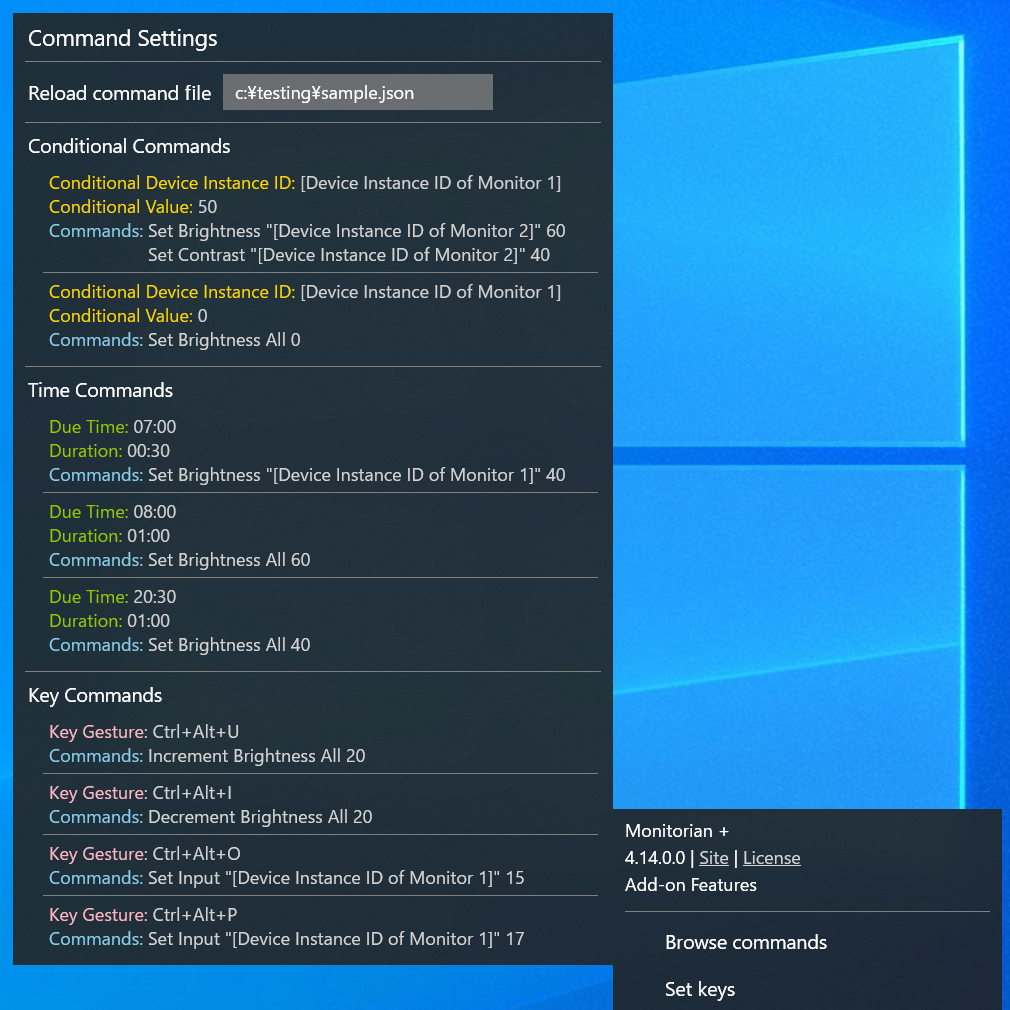
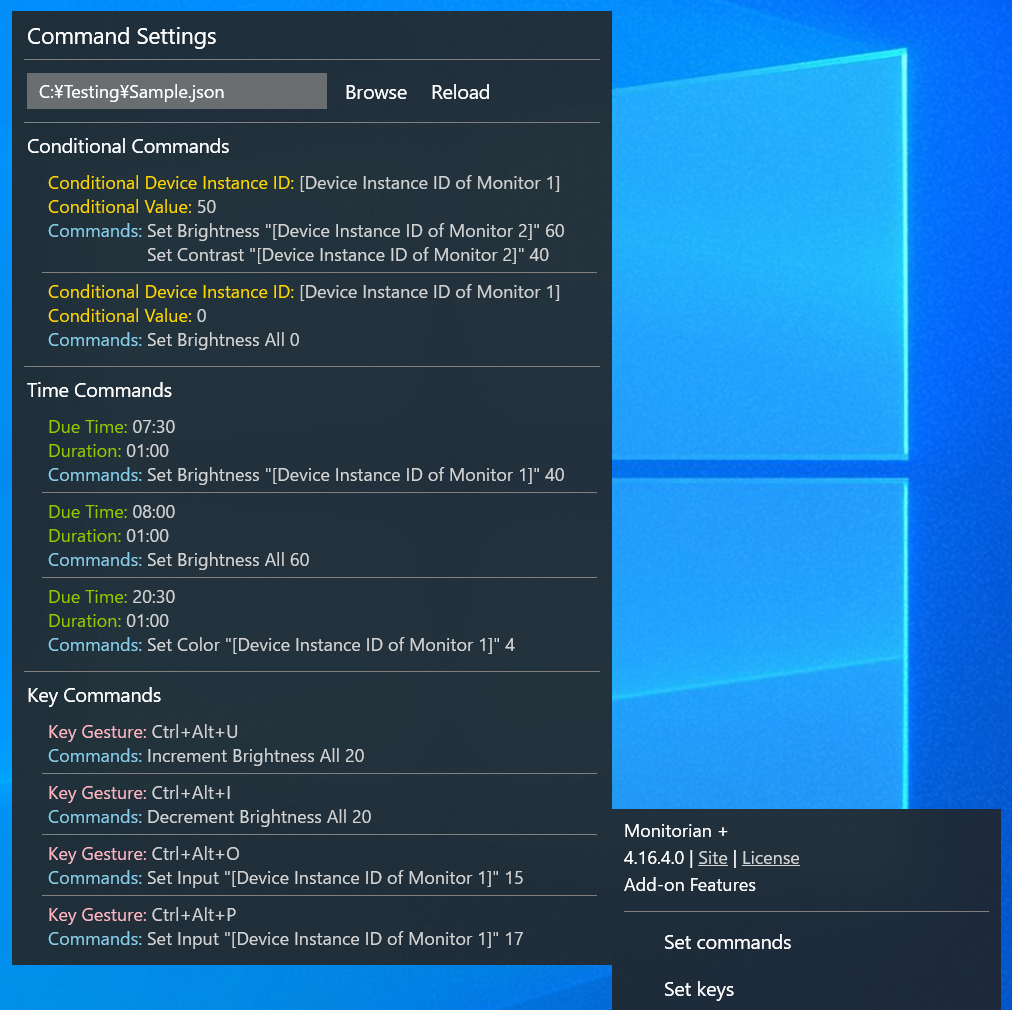
Update image and commands

diff --git a/docs/COMMANDS.md b/docs/COMMANDS.md
@@ -20,7 +20,7 @@ A command can:
  
 A set of conditional commands is required for each conditional value of each conditional monitor. Therefore, if you want to execute commands for every brightness, you will need to define 101 sets of conditional commands.
 
-The sets of conditional commands must be specified in an array of JSON format. Then, the prepared JSON file must be loaded using `/load` option. Please refer to [Load/Unload Commands](#loadunload-commands).
+The sets of conditional commands must be specified in an array of JSON format. Then the JSON file must be loaded using `/load` option. Please refer to [Load/Unload Commands](#loadunload-commands).
 
 Here are a few remarks:
 
@@ -134,7 +134,7 @@ Here are a few remarks:
 }
 ```
 
-[Combined JSON Schema](commands-schema.json)
+[JSON Schema (combined)](commands-schema.json)
 
 ### Time Commands
 
@@ -152,7 +152,7 @@ A command can:
 
 The duration minutes is for the case where the system starts or resumes after a due time. For example, if the due time is __08:50__ and the duration is __30__ minutes, and the system is turned on at __09:00__, the commands that were supposed to be executed at __08:50__ will be executed. Conversely, if the system is turned on at __9:30__, the commands will not be executed. The longest duration is around 1 day (1439 minutes).
 
-The sets of time commands must be specified in an array of JSON format. Then, the prepared JSON file must be loaded using `/load` option. Please refer to [Load/Unload Commands](#loadunload-commands).
+The sets of time commands must be specified in an array of JSON format. Then the JSON file must be loaded using `/load` option. Please refer to [Load/Unload Commands](#loadunload-commands).
 
 Here are a few remarks:
 
@@ -295,7 +295,7 @@ Here are a few remarks:
 }
 ```
 
-[Combined JSON Schema](commands-schema.json)
+[JSON Schema (combined)](commands-schema.json)
 
 ### Key Commands
 
@@ -318,7 +318,7 @@ As for the available modifier keys (Alt, Ctrl, Shift, Windows) and keys, please 
 
 If the specified hot key has been already used by the OS or other apps, the same hot key cannot be set. In addition, some combinations are not supported as hot keys.
 
-The sets of key commands must be specified in an array of JSON format. Then, the prepared JSON file must be loaded using `/load` option. Please refer to [Load/Unload Commands](#loadunload-commands).
+The sets of key commands must be specified in an array of JSON format. Then the JSON file must be loaded using `/load` option. Please refer to [Load/Unload Commands](#loadunload-commands).
 
 Here are a few remarks:
 
@@ -479,26 +479,36 @@ Here are a few remarks:
 }
 ```
 
-[Combined JSON Schema](commands-schema.json)
+[JSON Schema (combined)](commands-schema.json)
 
 ### Load/Unload Commands
 
-To enable the commands in a JSON file, the file must be loaded using `/load` option.
+To enable conditional/time/key commands, create a command file, which is a JSON file containing all the commands in a single array. The command types (conditional, time, key) and their order do not matter.
+Then load the JSON file using the `/load` option.
 
 ```
 monitorian /load [file path of JSON file enclosed in quotes]
 ```
+Loading new commands replaces all previously loaded commands.
 
-The commands of different types (conditional, time, key) can be stored in one array. Loading new commands will replace all previously loaded ones of the same type.
-
-After loading the commands, you can browse the loaded commands in Command Settings which will appear in menu window.
+After loading, you can browse the commands in Command Settings, accessible from menu window.
 
 ![Screenshot](../Images/Screenshot_commands.png)<br>
 (Device Instance IDs are dummy)
 
-To enable Command Settings window to open without loading a specific JSON file, use `/load` with `any` sub-option.
+To access Command Settings without loading a specific JSON file, use `/load` with `any` sub-option.
 
-You can unload all loaded commands using `/unload` option.
+```
+monitorian /load any
+```
+
+The rules for command file path are:
+
+- The most recently specified path is used, whether it was specified with `/load` option or in Command Settings.
+- The path specified in Command Settings is valid only until this app is closed.
+- If `any` sub-option is used, the path of last loaded command file (if any) is used.
+
+To disable all loaded commands, use `/unload` option.
 
 ```
 monitorian /unload
